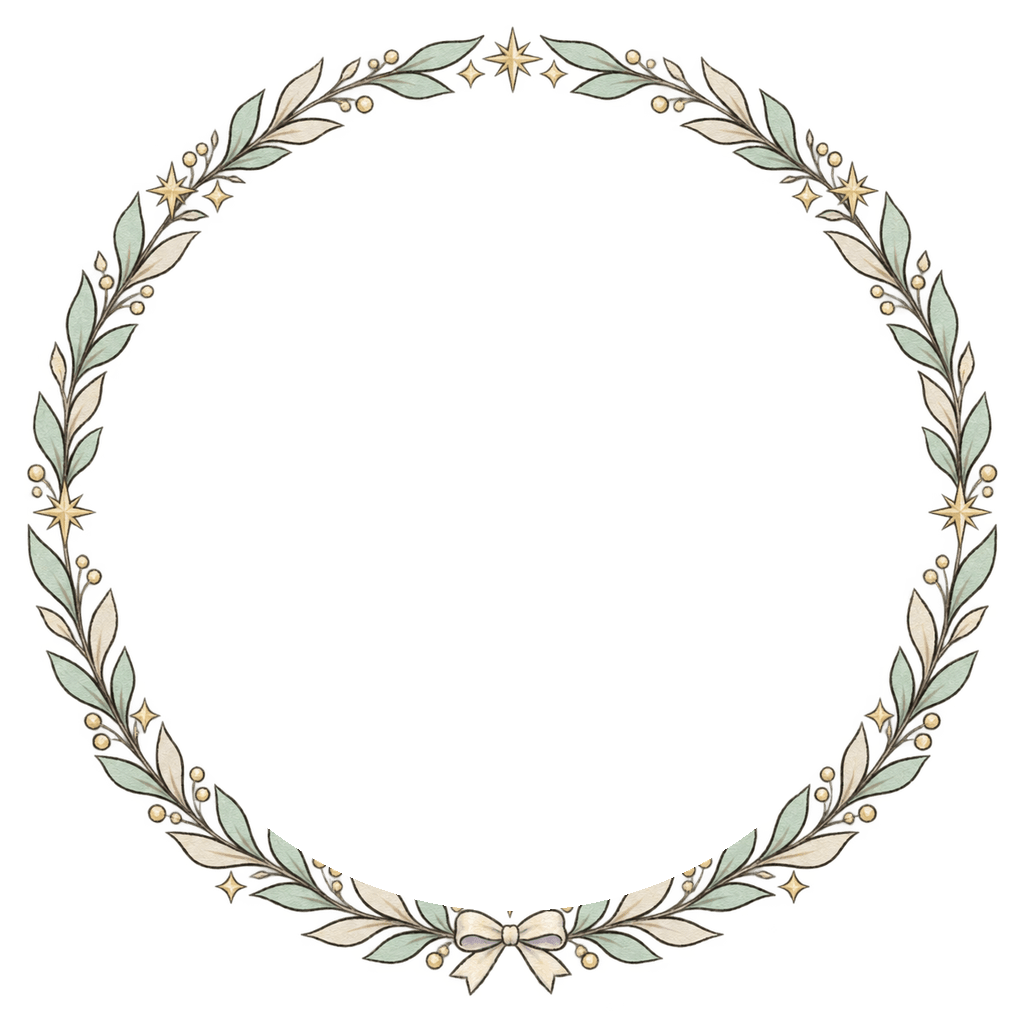
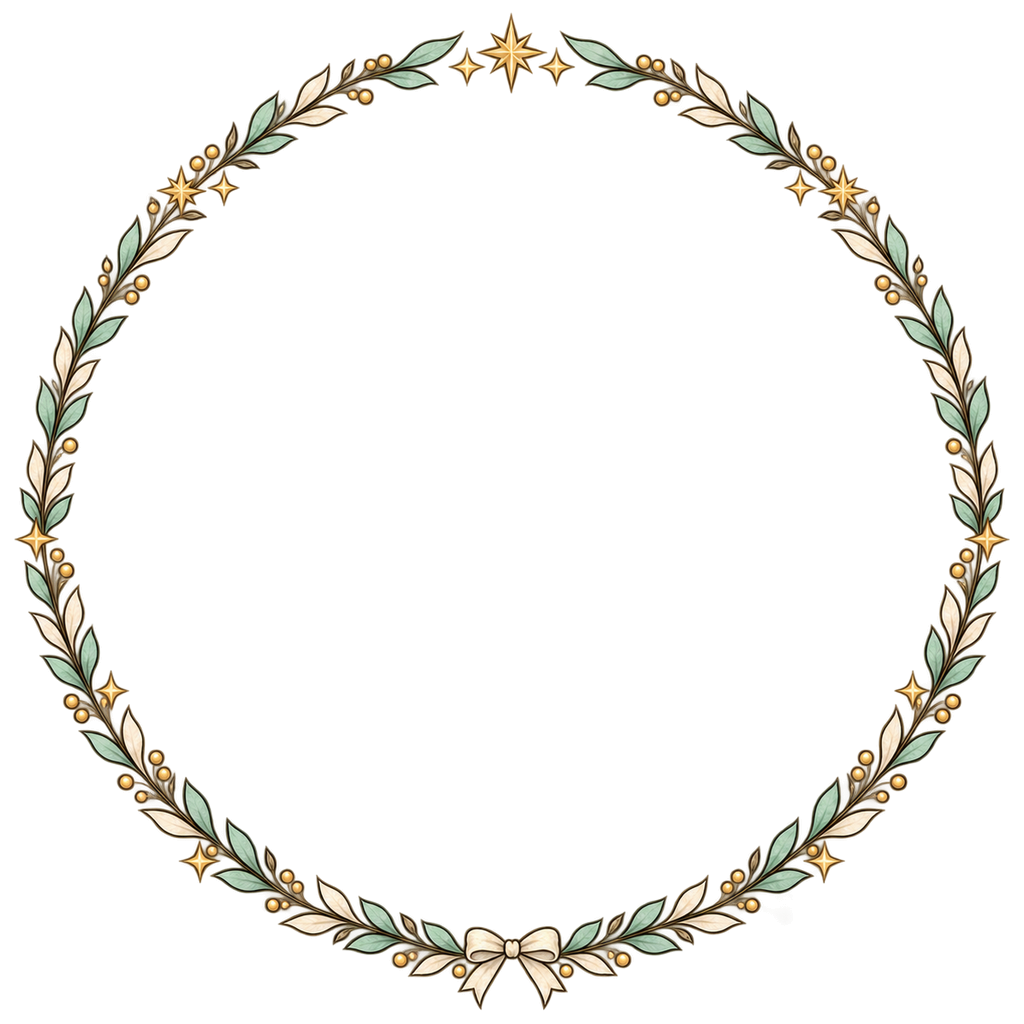
Use a new laurel frame with a centered opening
- images/ui/frame.png: new frame whose inner opening is centered and
  at least 41% of the image width in radius
- index.html: draw the frame centered at 125% (panel portrait and
  graph nodes) instead of the shifted 130% workaround

Claude-Session: https://claude.ai/code/session_01X4nV7ugHY8JkF3ij1uzvPn

Changed region(s): [[0.0, 0.0312, 1.0, 1.0]]

diff --git a/index.html b/index.html
@@ -144,7 +144,7 @@ button:focus-visible,[role=button]:focus-visible,a:focus-visible,input:focus-vis
 .hero{display:flex;gap:14px;align-items:center}
 .portrait{position:relative;width:118px;height:118px;flex-shrink:0}
 .portrait .av{width:100%;height:100%}
-.portrait .frame{position:absolute;left:-15%;top:-13.6%;width:130%;height:130%;pointer-events:none} /* 테두리 안쪽 구멍(약간 위로 치우침)이 원을 다 감싸도록 */
+.portrait .frame{position:absolute;inset:-12.5%;width:125%;height:125%;pointer-events:none} /* 새 테두리 그림: 구멍이 정중앙, 반지름이 그림 폭의 41% 이상 → 초상 원이 잎에 닿지 않음 */
 .hero h2{margin:0;font-size:26px;line-height:1.15}
 .hero .en{font-size:13px;color:var(--muted);margin-top:3px}
 .catb{display:inline-flex;align-items:center;gap:5px;margin-top:8px;font-size:12.5px;padding:3px 10px;border-radius:12px;border:1px solid var(--ink)}
@@ -887,7 +887,7 @@ function nodeEl(parent, p, x, y, r, opts){
   const cached = portraitUrl.get(p.id);
   if(typeof cached === 'string') setImg(cached); else if(cached !== null) findPortrait(p.id).then(setImg);
   mk('circle', {r, fill:'none', stroke:'#3A3739', 'stroke-width':opts.center ? 2.4 : 1.6}, inner);
-  if(FRAME_OK) mk('image', {href:opts.center ? 'images/ui/frame.png' : FRAME_SRC, x:-r*1.3, y:-r*1.272, width:r*2.6, height:r*2.6, style:'pointer-events:none'}, inner);
+  if(FRAME_OK) mk('image', {href:opts.center ? 'images/ui/frame.png' : FRAME_SRC, x:-r*1.25, y:-r*1.25, width:r*2.5, height:r*2.5, style:'pointer-events:none'}, inner);
   if(catIcon[p.cat] && !opts.center) mk('image', {href:catIcon[p.cat], x:r*0.45, y:-r*1.05, width:r*0.7, height:r*0.7}, inner);
   const nm = mk('text', {'text-anchor':'middle', y:r + (opts.center ? 26 : 18), class:'nm'}, inner);
   nm.textContent = p.ko;
